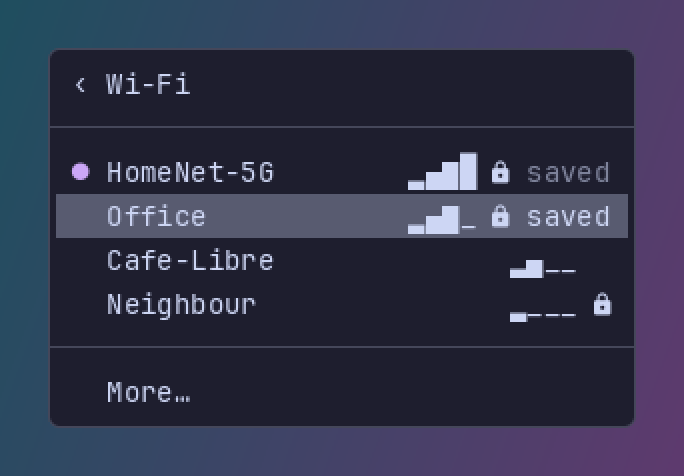
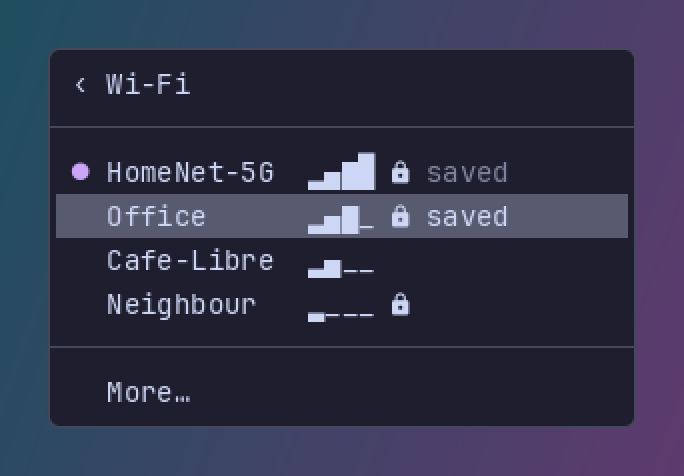
fix(quick): Wi-Fi final review F2 — bars in one column, the memory bound on the daemon's own pages, rest windows that always bite, docs
network_row reserves the widest tag's room (connecting…) so the signal and the lock sit in one column (spec § 2); the image is regenerated. The Wi-Fi PSS test bounds PSS without the shm pools (the compositor maps them too): closed <= idle + 640 KB, measured +532…+544 KB, which smaps splits into the binary's code pages, the font file's, the stack and the painter's glyph caches. The at-rest test keeps its minute guard before the last cycle, so a stray one-second timer armed by the close always falls inside the window. README and CLAUDE.md re-measured; failure reasons and MAX_INPUT's doc corrected.

Claude-Session: https://claude.ai/code/session_01HzNeDR4JYYs9cqajYqdQVP

diff --git a/crates/alpheus-demon/src/quick_wifi.rs b/crates/alpheus-demon/src/quick_wifi.rs
@@ -58,6 +58,10 @@ const NO_ANSWER: &str = "no answer in 20 s";
 const STILL_ACTIVATING: &str = "still activating after 60 s";
 pub(crate) const NM_GONE: &str = "NetworkManager went away";
 const BARS: [char; 4] = ['▂', '▄', '▆', '█'];
+/// A network row's tags; the widest one sets the room every row keeps for its tag.
+const CONNECTING: &str = "connecting…";
+const FAILED_TAG: &str = "failed";
+const SAVED_TAG: &str = "saved";
 
 /// 1 to 4 steps of signal: 0–24 %, 25–49 %, 50–74 %, 75–100 % (decision 5).
 pub fn steps(strength: u8) -> usize {
@@ -808,11 +812,11 @@ impl Wifi {
     /// FAILED_SHOWN after, else "saved" (dimmed) or nothing.
     fn tag(&self, n: &Network) -> (&'static str, Style) {
         if self.attempt.as_ref().is_some_and(|a| a.ssid == n.ssid) {
-            ("connecting…", Style::MUTED)
+            (CONNECTING, Style::MUTED)
         } else if self.failed.as_ref().is_some_and(|(s, _)| *s == n.ssid) {
-            ("failed", Style::WARN)
+            (FAILED_TAG, Style::WARN)
         } else if n.saved.is_some() {
-            ("saved", Style::MUTED)
+            (SAVED_TAG, Style::MUTED)
         } else {
             ("", Style::NORMAL)
         }
@@ -843,15 +847,17 @@ impl Wifi {
     }
 }
 
-/// "● HomeNet-5G        ▂▄▆█ 🔒 saved" (quick Wi-Fi spec § 2): ● on the connected one in the accent,
-/// the SSID cut to fit, then the signal, the lock for a secured one, and the tag, right-aligned one
-/// cell from the end. Selected: the band across the whole row.
+/// "● HomeNet-5G  ▂▄▆█ 🔒 saved" (quick Wi-Fi spec § 2): ● on the connected one in the accent,
+/// the SSID cut to fit, then the signal, the lock for a secured one, and the tag. The signal and
+/// the lock sit in one column on every row: the tag's room is the widest tag's, one cell from the
+/// end. Selected: the band across the whole row.
 fn network_row(g: &mut Grid, n: &Network, tag: &str, tag_style: Style, selected: bool) {
     let end = g.width();
     let lock = if n.security.secured() { LOCK } else { ' ' };
     let signal = bars(n.strength);
-    let right = if tag.is_empty() { format!("{signal} {lock}") } else { format!("{signal} {lock} {tag}") };
-    let width = text_width(&right);
+    let tag_room = [CONNECTING, FAILED_TAG, SAVED_TAG].into_iter().map(text_width).max().unwrap_or(0);
+    // "▂▄▆█ 🔒 " then the tag's room.
+    let width = BARS.len() as u16 + 3 + tag_room;
     let label = truncate(&n.label, end.saturating_sub(width + 2).saturating_sub(3));
     let mark = if n.connected { '●' } else { ' ' };
     list::row(
@@ -1000,11 +1006,11 @@ mod tests {
             w.draw(&mut g, line, &nets, selected);
             g
         };
-        assert_eq!(row(Line::Network(0), false).text().trim_end(), format!(" ● Maison-Test{}▂▄▆█ {LOCK} saved", " ".repeat(7)));
-        assert_eq!(row(Line::Network(1), false).text().trim_end(), format!("   Labo-Test{}▂▄▆_ {LOCK}", " ".repeat(15)));
-        assert_eq!(row(Line::Network(3), false).text().trim_end(), format!("   Cafe-Libre{}▂▄__", " ".repeat(14)), "open: no lock");
+        assert_eq!(row(Line::Network(0), false).text().trim_end(), format!(" ● Maison-Test ▂▄▆█ {LOCK} saved"));
+        assert_eq!(row(Line::Network(1), false).text().trim_end(), format!("   Labo-Test   ▂▄▆_ {LOCK}"));
+        assert_eq!(row(Line::Network(3), false).text().trim_end(), "   Cafe-Libre  ▂▄__", "open: no lock");
         let g = row(Line::Network(0), false);
-        assert_eq!((&g.styles()[1..2], &g.styles()[28..33]), ("a", "mmmmm"), "● in the accent, saved dimmed");
+        assert_eq!((&g.styles()[1..2], &g.styles()[22..27]), ("a", "mmmmm"), "● in the accent, saved dimmed");
         assert!(row(Line::Network(2), true).styles().chars().all(|c| c == 'S'), "selected: the band across the row");
         assert_eq!(row(Line::WifiHeader, false).text().trim_end(), " ‹ Wi-Fi");
         assert_eq!(row(Line::WifiMore, false).text().trim_end(), "   More…");
@@ -1294,6 +1300,27 @@ mod tests {
         assert_eq!(device_at(&mut w, ACTIVATED, Some("Cafe-Libre"), t), (QuickAction::Redraw, None));
         assert!(w.attempt.is_none() && w.deadline().is_none(), "activated on that SSID: done");
         assert!(row_of(&w, "Cafe-Libre").text().starts_with(" ● Cafe-Libre"), "● once NetworkManager says so");
+    }
+
+    /// Spec § 2's mockup: the bars and the lock sit in one column whatever the tag; the tag's
+    /// room is the widest tag's, `connecting…`.
+    #[test]
+    fn the_bars_and_the_lock_sit_in_one_column() {
+        let (c, t) = (config(), Instant::now());
+        let mut w = open(state());
+        pick(&mut w, "Cafe-Libre");
+        w.key(&c, Key::Enter, t);
+        let column = |label: &str| {
+            let chars: Vec<char> = row_of(&w, label).text().chars().collect();
+            let bars = chars.iter().position(|ch| BARS.contains(ch)).expect("bars");
+            (bars, chars[bars + 5])
+        };
+        assert!(row_of(&w, "Cafe-Libre").text().trim_end().ends_with(CONNECTING));
+        let (at, _) = column("Cafe-Libre");
+        assert_eq!(column("Labo-Test"), (at, LOCK), "untagged: the same column");
+        assert_eq!(column("Maison-Test"), (at, LOCK), "saved: the same column");
+        let end = usize::from(crate::quick::WIDTH + 2);
+        assert_eq!(at, end - 1 - (4 + 1 + 1 + 1 + usize::from(text_width(CONNECTING))), "room for the widest tag");
     }
 
     #[test]

diff --git a/crates/alpheus-demon/tests/memory.rs b/crates/alpheus-demon/tests/memory.rs
@@ -1495,6 +1495,7 @@ fn quick_wifi_pss_detail_open_and_closed() {
     assert!(d.wait_for("launcher socket ready", DELAY), "{:?}", d.log());
     std::thread::sleep(TRAY_SETTLE);
     let idle = d.pss_kb();
+    let idle_own = idle - d.shm_pss_kb();
     let toggle = || assert_eq!(launcher(&sway, &Request::Quick(QuickVerb::Wifi)), Reply::Done);
     toggle();
     assert!(detail_read(&nm, 1), "{:?} {:?}", nm.calls(), d.log());
@@ -1504,6 +1505,7 @@ fn quick_wifi_pss_detail_open_and_closed() {
     assert!(d.wait_for("popup closed", DELAY), "{:?}", d.log());
     std::thread::sleep(TRAY_SETTLE);
     let closed = d.pss_kb();
+    let closed_own = closed - d.shm_pss_kb();
     for n in 2..=11 {
         toggle();
         assert!(detail_read(&nm, n), "{:?}", d.log());
@@ -1513,18 +1515,31 @@ fn quick_wifi_pss_detail_open_and_closed() {
     }
     std::thread::sleep(TRAY_SETTLE);
     let cycled = d.pss_kb();
+    let cycled_own = cycled - d.shm_pss_kb();
     let detail_cost = open.saturating_sub(idle);
     eprintln!(
         "quick Wi-Fi PSS (KB): {idle} at rest, {open} with the detail open on 32 networks (cost {detail_cost}), \
-         {closed} closed, {cycled} after 10 more cycles"
+         {closed} closed, {cycled} after 10 more cycles; without the shm pools: {idle_own} at rest, {closed_own} closed, \
+         {cycled_own} cycled"
     );
     assert!(open < STARTUP_MAX_KB, "{open} KB >= 15 MB — report to Mae, never raise");
     assert!(
         detail_cost <= 1536,
         "the detail open costs {detail_cost} KB (the panel ≤ 1 MB, 40 access points read on the D-Bus thread, 32 rows): report, never raise"
     );
-    assert!(closed <= idle + 512, "closed {closed} KB vs {idle} KB: more than the first open's code and font pages");
-    assert!(cycled <= closed + 128, "cycled {cycled} KB vs {closed} KB closed: 10 cycles must keep nothing");
+    // Closed, the first open leaves ≈ 540 KB of the daemon's own (smaps, three release runs,
+    // 2026-10-12): the binary's code pages +128 and the font file's +320, touched for the first time
+    // and now resident, the main stack +20, the main heap +68…+76 (the painter's glyph caches, bounded
+    // by MAX_CACHE); the D-Bus thread's arena back to idle's. The shm pools are left out of both
+    // bounds: the compositor maps them too, and their PSS moved −56…+104 KB between two readings.
+    assert!(
+        closed_own <= idle_own + 640,
+        "closed {closed_own} KB vs {idle_own} KB without the pools: more than the first open's code, font and glyph caches"
+    );
+    assert!(
+        cycled_own <= closed_own + 128,
+        "cycled {cycled_own} KB vs {closed_own} KB closed without the pools: 10 cycles must keep nothing"
+    );
 }
 
 /// Quick Wi-Fi spec § 7: once the detail closed, no timer, no wake-up (the loop's nor the D-Bus
@@ -1539,17 +1554,25 @@ fn at_rest_no_wakeups_after_the_wifi_detail() {
     let (sway, _hypr, d) = start("wifi-rest", 1, &bus, None, Some(&wifi_bar(&backlight.0)), PwDump::Fifo);
     fake_stdin_recorder(&sway, "nmcli");
     assert!(d.wait_for("launcher socket ready", DELAY), "{:?}", d.log());
+    const REST: Duration = Duration::from_secs(10);
     for n in 1..=3 {
+        if n == 3 {
+            // Before the last cycle, never between the close and the window: its sleep would let a
+            // stray one-second timer armed by the close fire before the window (then unseen). The
+            // last cycle and the 300 ms below fit in the 5 s added.
+            away_from_the_minute(REST + Duration::from_secs(5));
+        }
         assert_eq!(launcher(&sway, &Request::Quick(QuickVerb::Wifi)), Reply::Done);
         assert!(detail_read(&nm, n), "{:?}", d.log());
         std::thread::sleep(PAST_DEBOUNCE);
         assert_eq!(launcher(&sway, &Request::Quick(QuickVerb::Wifi)), Reply::Done);
         assert!(d.wait_for_count("popup closed", n, DELAY), "{:?}", d.log());
     }
+    // Not the 3 s settle: a stray one-second timer armed by the last close must fall inside the window.
+    let closed_at = Instant::now();
     std::thread::sleep(Duration::from_millis(300));
-    const REST: Duration = Duration::from_secs(10);
-    away_from_the_minute(REST);
     let (before, main_before, ticks) = (d.wakeups(), d.main_thread_wakeups(), d.cpu_ticks());
+    assert!(closed_at.elapsed() < Duration::from_millis(900), "the window starts within a second of the close");
     let dbus_before = d.thread_wakeups("D-Bus").expect("the D-Bus thread");
     std::thread::sleep(REST);
     assert_no_spin(d.cpu_ticks() - ticks, REST, "after the Wi-Fi detail");

diff --git a/crates/alpheus-demon/src/quick.rs b/crates/alpheus-demon/src/quick.rs
@@ -2047,11 +2047,12 @@ mod tests {
     fn a_wifi_state_moves_the_window_with_the_selection_and_a_closed_detail_goes_back_to_the_top() {
         let (w, t) = (World::full(), Instant::now());
         let l = w.live();
-        // Twenty networks at 50 %, Reseau-Test-00 at `first`: first in the list at 90, last at 10.
+        // Twenty networks at 50 %, Labo-Test (a name short enough to show whole) at `first`:
+        // first in the list at 90, last at 10.
         let around = |first: u8| {
             let aps = (0..20)
                 .map(|n| AccessPoint {
-                    ssid: format!("Reseau-Test-{n:02}").into_bytes(),
+                    ssid: if n == 0 { b"Labo-Test".to_vec() } else { format!("Reseau-Test-{n:02}").into_bytes() },
                     strength: if n == 0 { first } else { 50 },
                     security: Security::Psk,
                 })
@@ -2065,7 +2066,7 @@ mod tests {
         q.key(&l, Key::Enter, false, t);
         q.key(&l, Key::Home, false, t);
         assert_eq!(q.top, 0);
-        let picked = |q: &Quick| texts(&rows(&l, q)).iter().any(|r| r.contains("Reseau-Test-00"));
+        let picked = |q: &Quick| texts(&rows(&l, q)).iter().any(|r| r.contains("Labo-Test"));
         assert!(picked(&q), "first: in view");
         q.follow_wifi(&l, Some(around(10)), t);
         assert!(q.top > 0 && picked(&q), "moved to the end by the state: the window follows it ({})", q.top);

diff --git a/crates/alpheus-demon/tests/common/mod.rs b/crates/alpheus-demon/tests/common/mod.rs
@@ -911,6 +911,25 @@ impl Daemon {
         t.lines().find_map(|l| l.strip_prefix("Pss:")).and_then(|v| v.split_whitespace().next()).unwrap().parse().unwrap()
     }
 
+    /// PSS in KB of the daemon's shm pools (memfd mappings). The compositor maps them too, so their
+    /// PSS moves by a buffer as it maps and unmaps one: a bound on what the daemon itself keeps
+    /// leaves them out (`pss_kb() - shm_pss_kb()`).
+    pub fn shm_pss_kb(&self) -> u64 {
+        let t = fs::read_to_string(format!("/proc/{}/smaps", self.pid())).unwrap();
+        let mut shm = false;
+        let mut kb = 0;
+        for l in t.lines() {
+            if let Some(v) = l.strip_prefix("Pss:") {
+                if shm {
+                    kb += v.split_whitespace().next().and_then(|n| n.parse::<u64>().ok()).unwrap_or(0);
+                }
+            } else if l.split_whitespace().next().is_some_and(|f| f.contains('-') && !f.ends_with(':')) {
+                shm = l.contains("/memfd:");
+            }
+        }
+        kb
+    }
+
     /// Number of the daemon's threads.
     pub fn threads(&self) -> usize {
         fs::read_dir(format!("/proc/{}/task", self.pid())).map(|d| d.count()).unwrap_or(0)

diff --git a/crates/alpheus-commun/src/exec.rs b/crates/alpheus-commun/src/exec.rs
@@ -80,8 +80,8 @@ pub struct Captured {
     pub end: CaptureEnd,
 }
 
-/// The most bytes `spawn_with_input` writes, all parts together: far below a pipe's buffer (64 KiB
-/// on Linux), so the write never waits for the program to read.
+/// The most bytes `spawn_with_input` writes, all parts together: one page (4,096 bytes), which every
+/// pipe holds whatever its size, so the write never waits for the program to read.
 pub const MAX_INPUT: usize = 4096;
 
 pub trait Executor: Send + Sync {
@@ -302,7 +302,7 @@ fn detached_command(prog: &str, args: &[&str], stdin: Stdio) -> Command {
 
 /// `spawn_detached` with a standard input: a pipe, its read end inherited by the grandchild across
 /// the double fork; the parts written once the program is started (the pipe holds them all,
-/// MAX_INPUT being far below its buffer), then the write end dropped: the program's end of file.
+/// MAX_INPUT being one page), then the write end dropped: the program's end of file.
 fn spawn_detached_with_input(prog: &str, args: &[&str], input: &[&[u8]]) -> Result<u32, ExecError> {
     let total: usize = input.iter().map(|p| p.len()).sum();
     if total > MAX_INPUT {

diff --git a/CLAUDE.md b/CLAUDE.md
@@ -192,9 +192,9 @@ breakdown), then the spec of the sub-project currently in progress in
   plan [`docs/plans/2026-10-11-alpheus-quick-settings-plan-2.md`](docs/plans/2026-10-11-alpheus-quick-settings-plan-2.md))
   **implemented** on `feat/quick-wifi` (per-task reviews; the final review and Mae's trial pending):
   - **The row and the detail.** A Wi-Fi row first under the sliders (glyph by signal, the SSID, on or off; Space: `nmcli radio wifi on|off`); its detail by Enter, →, a click, the network module or `alpheus-launch --quick wifi` (one `nmcli device wifi rescan`): one row per SSID, connected then saved then others by signal, at most 32, ●, four steps, the lock, `saved`; `More…` runs `[quick] wifi_more` (default: launcher.toml's terminal + nmtui).
-  - **Connecting.** Connected: `connection down uuid` (the active connection's own); saved: `connection up uuid`; open: `device wifi connect <ssid>`; a new WPA-personal one: a Password row (a boxed 256-byte buffer wiped with volatile writes), `nmcli --ask device wifi connect <ssid>` with the password on stdin (`Executor::spawn_with_input`), never argv, log or Debug; typed characters also pass through SCTK's per-key heap string, which is not wiped (decision 14). `connecting…`, then ● once activated; `failed` shown 4 s (device state 120, leaving an activating state, 20 s without an answer, 60 s while still activating, NetworkManager gone; one `quick: wifi connection failed (<why>)` line, never an SSID or a password). **Mae's ruling:** an attempt on a new network outlives the panel (a follower on the app, up to 20 s, 60 s while the device is still activating) so the profile that appeared during the attempt is deleted when it fails, only if still saved; a slow network shows `failed` at 60 s but keeps its profile. One attempt at a time. Residual: while the saved list is unknown (failed listing, an unreadable profile, more than 64 profiles), Enter on an already-saved network may create a duplicate profile, never deleted (remove it via `More…`).
+  - **Connecting.** Connected: `connection down uuid` (the active connection's own); saved: `connection up uuid`; open: `device wifi connect <ssid>`; a new WPA-personal one: a Password row (a boxed 256-byte buffer wiped with volatile writes), `nmcli --ask device wifi connect <ssid>` with the password on stdin (`Executor::spawn_with_input`), never argv, log or Debug; typed characters also pass through SCTK's per-key heap string, which is not wiped (decision 14). `connecting…`, then ● once activated; `failed` shown 4 s, with one `quick: wifi connection failed (<why>)` line (never an SSID or a password): `the activation failed` (device state 120, or leaving an activating state), `no answer in 20 s`, `still activating after 60 s`. NetworkManager gone is a log line only, `NetworkManager went away`: `Outcome::Gone` clears `failed`, the detail closes and the row hides, nothing is cleaned up. **Mae's ruling:** an attempt on a new network outlives the panel (a follower on the app, up to 20 s, 60 s while the device is still activating) so the profile that appeared during the attempt is deleted when it fails, only if still saved; a slow network shows `failed` at 60 s but keeps its profile. The cleanup never deletes under doubt: a NetworkManager restart (the saved list unknown until read again from the new owner) or a profile reserved to another user (skipped) deletes nothing, and **Mae's ruling:** a network-domain outage during a followed attempt ends it with no cleanup (the safe side; in that rare case a wrong-password profile may remain, removed via `More…`). A panel opened during such an outage (the backoff) shows `Searching…` until the reconnection. One attempt at a time. Residual: while the saved list is unknown (failed listing, an unreadable profile, more than 64 profiles), Enter on an already-saved network may create a duplicate profile, never deleted (remove it via `More…`).
   - **How.** Reads on the D-Bus thread's one read-only connection, only while the panel is open: a `WifiTap` (scope Closed/Row/Detail + a socket pair the thread polls beside the bus, no thread, no timer), `WifiReader` (GetDevices, DeviceType, the device's active access point and `Device.ActiveConnection`'s `Uuid`; with the detail ListConnections, GetSettings, AccessPoints and five `WIFI_RULES` added and removed with it); `RemoveMatch` joined the method allowlist (a bus-driver call, nothing written on NetworkManager; `GetSecrets` never). `Msg::Wifi` goes to the panel, never the bar. The `quick` module now wants the network domain (alone in `modules`, NetworkManager is followed; with the default modules nothing changes), and `WirelessEnabled` re-reads that domain on a radio toggle even with the panel closed (event-only, no polling).
-  - **Measured in release** (vs `dbb90b8`, back to back, 3 runs each, separate target directories): one-time cost +265…+356 KB over the nine pairings (binary 5.70 → 5.83 MiB, +132 KiB stripped; the bigger binary is most of it), the detail open on 40 access points (32 listed) 914–918 KB over the module at rest, +500 KB once closed (the first open's warm-up), +40…+94 KB over 10 more cycles, 0 loop and 0 D-Bus-thread wake-ups at rest after. Not a leak of this delivery: a Closed asked and a Detail asked again within microseconds read as one unchanged Detail (the new panel then waits at `Searching…`); a person's close and reopen are never that close, the memory tests wait 200 ms.
+  - **Measured in release** (vs `dbb90b8`, back to back, 3 runs each, separate target directories; re-measured after the final fix wave): one-time cost +176…+372 KB over the nine pairings (binary 5.70 → 5.83 MiB, +136 KiB stripped): code linked in, unused — smaps at startup show the binary's resident code pages +244…+308 KB and its data +24 KB, heap, fonts and libraries unchanged within noise. The detail open on 40 access points (32 listed) 898–910 KB over the module at rest; +476…+488 KB once closed, which smaps splits into the binary's code pages +128, the font file's +320 and the main stack +20 (touched by the first open), the main heap +68…+76 (the painter's bounded glyph caches) and the shm pools −56; the D-Bus thread's arena is back to idle's. The test bounds what the daemon keeps without the shm pools (the compositor maps them too; their PSS moved −56…+104 KB between two readings): closed ≤ idle + 640 KB (measured +532…+544), 10 more cycles ≤ +128 KB (measured +48…+72). 0 loop and 0 D-Bus-thread wake-ups at rest after; that rest window now starts within a second of the close, so a stray one-second timer always shows. A close and a reopen the D-Bus thread reads as one poke are a new open since the final fix wave (the memory tests no longer wait between them).
   - **Unverified until Mae's trial:** `nmcli --ask` reading the password from a pipe, and polkit (does `nmcli` change Wi-Fi from her session without a prompt?).
   - **Pending (Mae's decision, never edited from here):** `wifi_more`, a key for `alpheus-launch --quick wifi` — the French note in `.superpowers/sdd/quick/note-wifi.md`; after the switch, `shell-ctl reload-bar`. Delivery 3 (Bluetooth) next.
 - **Launcher command sources** (spec

diff --git a/README.md b/README.md
@@ -56,8 +56,8 @@ outputs). alpheus figures are release builds. Updated with every delivery.
 | Quick settings, linked in but unused (no `quick` in `modules`) | +64…+196 KB vs. the delivery before this one | binary 5.59 → 5.70 MiB (+108 KiB stripped); measured `d483590` vs this delivery, release, back to back, 3 runs each, separate target directories, on the `everything` case of `startup_pss_per_source` (its `modules` list has no `quick`): the code linked in, unused |
 | Quick settings, module on, panel closed | 96–108 KB | `quick_pss_idle_open_and_closed`, 3 runs (8.0 MB with it, 1 output): the power profile's state, read once from the system bus (no daemon: one GetNameOwner), and the sound tap; no surface, no timer, no sink list. With `quick` alone in `modules`, the D-Bus source thread may start for that profile (the default modules already run it) |
 | Quick settings panel, open | 444–448 KB, +340–344 KB over idle once closed | same test; the closed figure is the first open's one-time warm-up, not a leak: `/proc/<pid>/smaps` shows the binary's code pages (≈ +320 KB) and the font file's (≈ +64 KB) now resident, the heap and the shm pool back to idle's; 20 more open/close cycles −18…+36 KB over closed; its surface and pool exist only while it shows; 0 loop wake-ups at rest once it closed (`at_rest_no_wakeups_after_the_quick_panel`) |
-| Quick settings' Wi-Fi, linked in (delivery 2) | +265…+356 KB vs. delivery 1 | binary 5.70 → 5.83 MiB (+132 KiB stripped); measured `dbb90b8` vs this delivery, release, back to back, 3 runs each, separate target directories, on the `everything` case of `startup_pss_per_source` (no `quick` there), nine pairings: the code linked in, unused; the bigger binary is most of it (the "plan 1" case, with no source at all, grows +213…+328 KB too) |
-| Quick settings, Wi-Fi detail open (40 access points, 32 listed) | 914–918 KB over the panel's module at rest, +500 KB once closed | `quick_wifi_pss_detail_open_and_closed`, 3 runs (8.0 MB at rest, 1 output): the D-Bus thread reads the access points and saved profiles only while the detail is open (five match rules, removed with it; a socket pair wakes it, no thread, no timer); the closed figure is the first open's one-time warm-up, as the panel's; 10 more cycles +40…+94 KB over closed; 0 loop and 0 D-Bus-thread wake-ups at rest after (`at_rest_no_wakeups_after_the_wifi_detail`) |
+| Quick settings' Wi-Fi, linked in (delivery 2) | +176…+372 KB vs. delivery 1 | binary 5.70 → 5.83 MiB (+136 KiB stripped); measured `dbb90b8` vs this delivery, release, back to back, 3 runs each, separate target directories, on the `everything` case of `startup_pss_per_source` (no `quick` there), nine pairings: code linked in, unused. smaps at startup (one run each): the binary's resident code pages +244…+308 KB and its data +24 KB; heap, fonts and libraries unchanged within noise (the shm pools and anonymous memory move ±110 KB between runs) |
+| Quick settings, Wi-Fi detail open (40 access points, 32 listed) | 898–910 KB over the panel's module at rest, +476…+488 KB once closed | `quick_wifi_pss_detail_open_and_closed`, 3 runs (7.9–8.0 MB at rest, 1 output): the D-Bus thread reads the access points and saved profiles only while the detail is open (five match rules, removed with it; a socket pair wakes it, no thread, no timer). Once closed, smaps (3 runs): the binary's code pages +128 KB and the font file's +320 KB touched by the first open, the main stack +20 KB, the main heap +68…+76 KB (the painter's glyph caches, bounded), the shm pools −56 KB; the D-Bus thread's arena back to idle's. 10 more cycles +48…+72 KB over closed without the shm pools; 0 loop and 0 D-Bus-thread wake-ups at rest after (`at_rest_no_wakeups_after_the_wifi_detail`) |
 | Bar daemon, live on the author's laptop (3 outputs) | ≈ 11.3 MB | real session, all modules — predates this merge, see note below |
 | `pw-dump` child (sound source) | ≈ 2.5 MB | silent at rest |
 | **alpheus resident total, live** | **≈ 14 MB** | bar + sound source — predates this merge, see note below |
